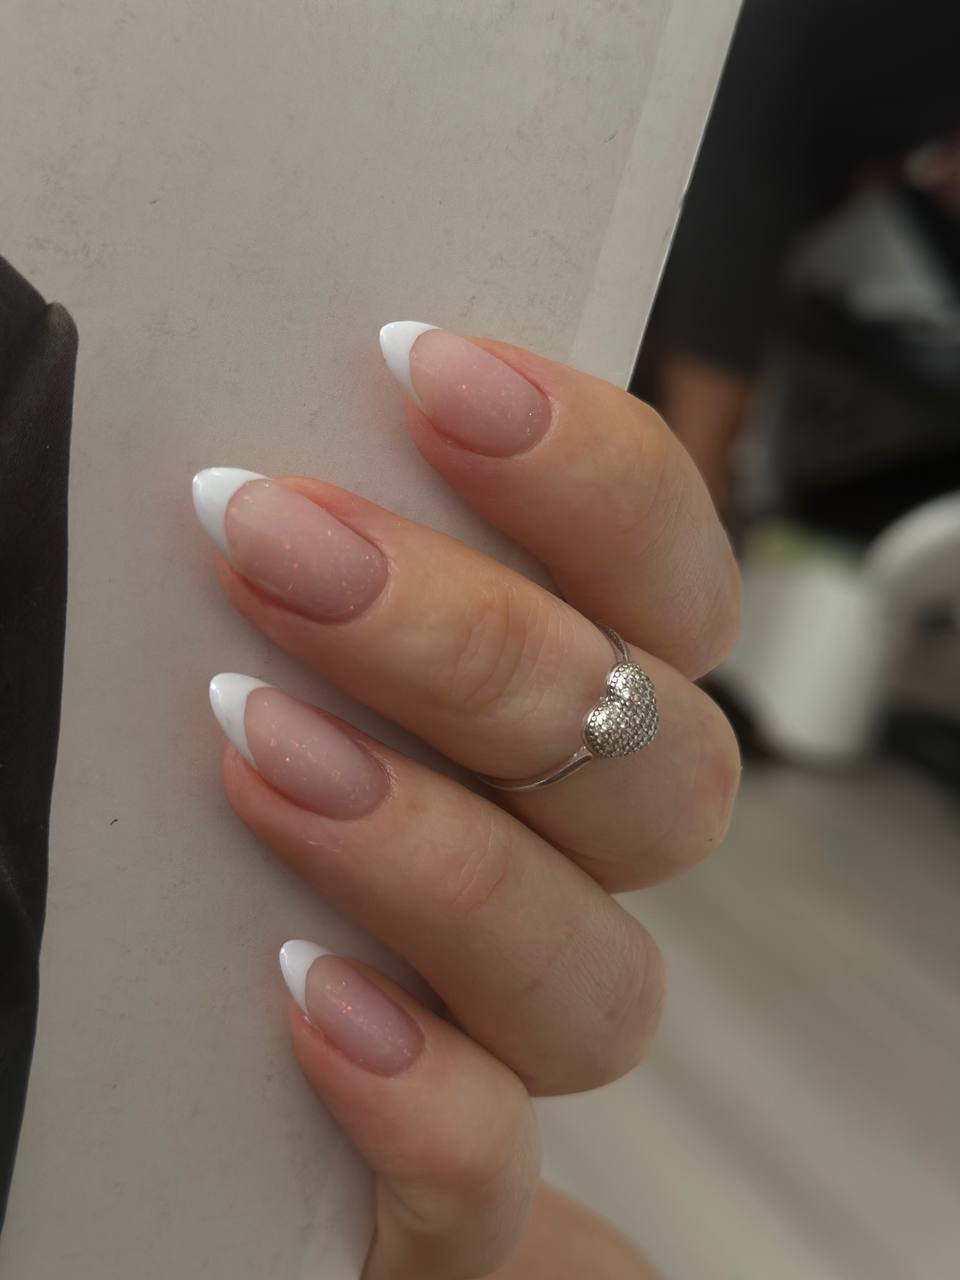
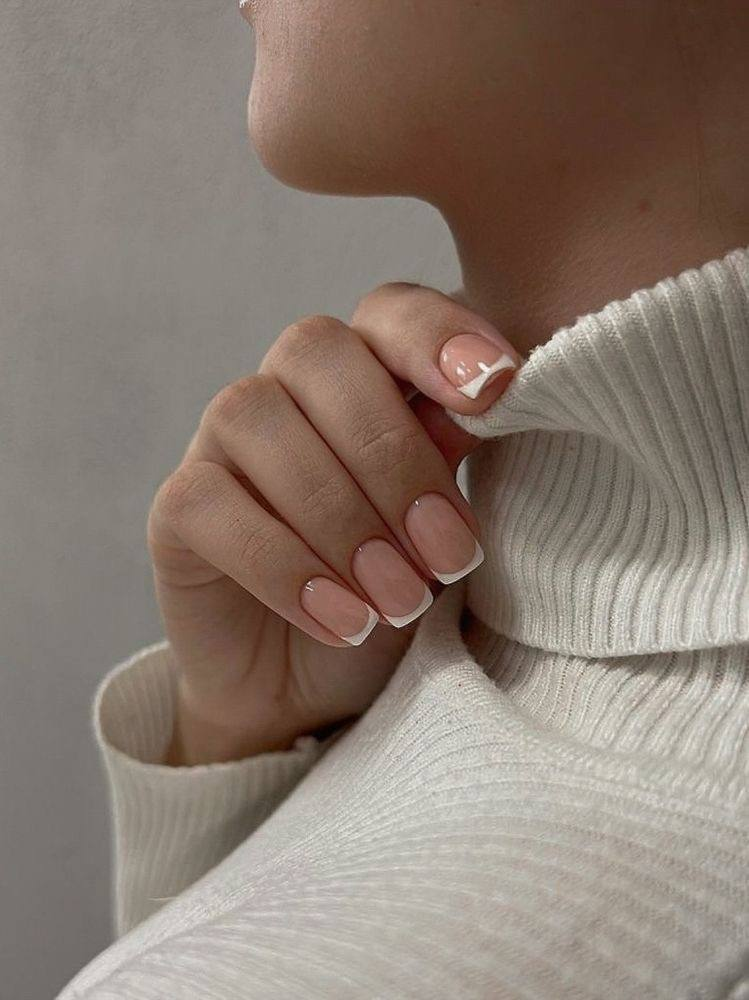
V4: swap hand-detail photo again, widen Regular Manicure crop
- hand-detail: replaced with 41418A76...JPG (elegant white French
  manicure profile shot) per owner's specific pick, same photo already
  used in the Meet Our Work gallery — fine to reuse across sections.
- Regular Manicure Gel-Overlay: same photo kept, re-cropped taller
  (690x340 vs the previous 690x300) so both middle nails' tips have
  visible margin below them instead of touching the crop edge.

Claude-Session: https://claude.ai/code/session_01ULdi4Mp8aUPa2GuYegTmBD

diff --git a/components/v4/ValuePropV4.tsx b/components/v4/ValuePropV4.tsx
@@ -28,7 +28,7 @@ export default function ValuePropV4() {
         <FadeUp delayMs={120} className="relative aspect-[3/4] w-full overflow-hidden rounded-[var(--radius-xl)] shadow-2xl">
           <Image
             src="/images/v4/hand-detail.jpg"
-            alt="Elegant white French almond manicure by AK.LUX.NAILS"
+            alt="Classic white French manicure by AK.LUX.NAILS"
             fill
             sizes="(min-width: 1024px) 40vw, 90vw"
             className="object-cover"